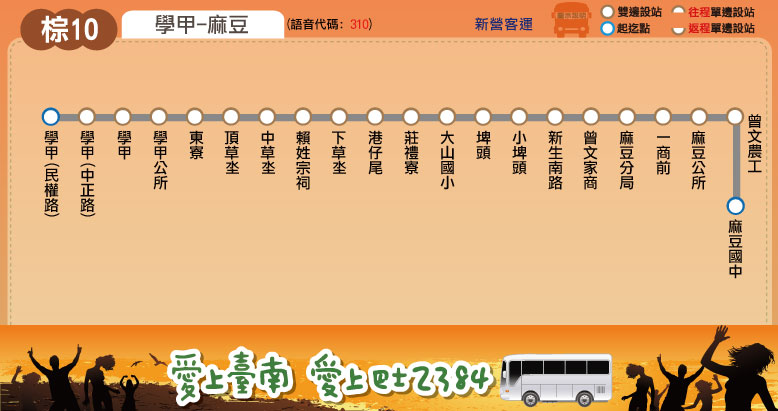
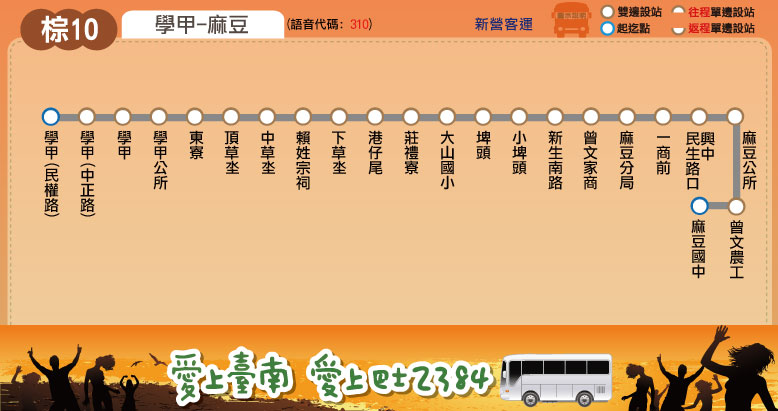
finished the time schedule of brown 10 & 11

Changed region(s): [[0.8638, 0.3212, 0.9563, 0.7007], [0.9563, 0.2628, 0.9871, 0.4672]]

diff --git a/brown/brown_10.html b/brown/brown_10.html
@@ -67,7 +67,7 @@ select.get_fare option.option5
 			<table border="0">
 				<tr>
 					<td>起訖點</td>
-					<td>新營 － 鹽水 － 南鯤鯓 － 雙春</td>
+					<td>學甲 － 麻豆</td>
 				</tr>
 				<tr>
 					<td>營運公司</td>
@@ -75,7 +75,13 @@ select.get_fare option.option5
 				</tr>
 				<tr>
 					<td>首／末班車發車時刻</td>
-					<td>往 雙春：09:45／17:40<br />往 新營：06:00／14:20</td>
+					<td>
+					<script language="javascript">
+					document.write('往 麻豆：'+brown_10_time_go[0]+'／'+brown_10_time_go[brown_10_time_go.length-1]);
+					document.write('<br />');
+					document.write('往 學甲：'+brown_10_time_return[0]+'／'+brown_10_time_return[brown_10_time_return.length-1]);
+					</script>
+					</td>
 				</tr>
 				<tr>
 					<td>班距</td>
@@ -87,7 +93,7 @@ select.get_fare option.option5
 				</tr>
 			</table>
 			<p>　</p>
-			<a href="http://2384.tainan.gov.tw:8080/AGPSRemoteQuery3/ajaxBus.jsp?pathId=1301&locale=zh_TW" class="button">公車動態資訊</a> </div>
+			<a href="http://2384.tainan.gov.tw:8080/AGPSRemoteQuery3/ajaxBus.jsp?pathId=1310&locale=zh_TW" class="button">公車動態資訊</a> </div>
 	</div>
 </div>
 <div id="wrapper3">
@@ -133,10 +139,10 @@ select.get_fare option.option5
 		<span class="byline">Bus schedule</span> </div>
 	<div class="content">
 		<script language="javascript">
-			document.write('<h2><font color="brown">新營-&gt;雙春</font></h2>');
+			document.write('<h2><font color="brown">學甲-&gt;麻豆</font></h2>');
 			create_time_schedule(brown_10_main_stop_name, brown_10_main_stop_time_consume, brown_10_important_stop, brown_10_time_go, false);
 			document.write('<p>　</p>');
-			document.write('<h2><font color="brown">雙春-&gt;新營</font></h2>');
+			document.write('<h2><font color="brown">麻豆-&gt;學甲</font></h2>');
 			create_time_schedule(brown_10_main_stop_name, brown_10_main_stop_time_consume, brown_10_important_stop, brown_10_time_return, true);
 			document.write(TimeScheduleMSG);
 		</script>
@@ -152,22 +158,13 @@ select.get_fare option.option5
 		<div class="content">
 			<table>
 				<tr>
-					<th rowspan="3">新營</th>
-					<td style="text-align: center"><img src="../route/transfer/railway.png"></td>
-					<td>台鐵新營站</td>
-				</tr>
-				<tr>
+					<th rowspan="2">學甲</th>
 					<td style="text-align: center"><img src="../route/transfer/brown_transfer_logo.png"></td>
-					<td id="brown"><a href="../brown/brown.html" target="_blank">棕幹線</a>、<a href="../brown/brown_1.html" target="_blank">棕1</a>、<a href="../brown/brown_2.html" target="_blank">棕2</a>、<a href="../brown/brown_3.html" target="_blank">棕3</a></td>
+					<td id="brown"><a href="../brown/brown.html" target="_blank">棕幹線</a>、<a href="../brown/brown_10.html" target="_blank">棕10</a>、<a href="../brown/brown_11.html" target="_blank">棕11</a></td>
 				</tr>
 				<tr>
-					<td style="text-align: center"><img src="../route/transfer/yellow_transfer_logo.png"></td>
-					<td id="yellow">
-					<p>
-						<a href="../yellow/yellow.html" target="_blank">黃幹線</a>、<a href="../yellow/yellow_1.html" target="_blank">黃1</a>、<a href="../yellow/yellow_2.html" target="_blank">黃2</a>、<a href="../yellow/yellow_3.html" target="_blank">黃3</a>、<a href="../yellow/yellow_4.html" target="_blank">黃4</a>、
-					</p>
-					<a href="../yellow/yellow_5.html" target="_blank">黃5</a>、<a href="../yellow/yellow_6.html" target="_blank">黃6</a>、<a href="../yellow/yellow_7.html" target="_blank">黃7</a>
-					</td>
+					<td style="text-align: center"><img src="../route/transfer/blue_transfer_logo.png"></td>
+					<td id="blue"><a href="../blue/blue_1.html" target="_blank">藍1</a>、<a href="../blue/blue_2.html" target="_blank">藍2</a>、<a href="../blue/blue_3.html" target="_blank">藍3</a></td>
 				</tr>
 			</table>
 		</div>

diff --git a/brown/brown_11.html b/brown/brown_11.html
@@ -67,7 +67,7 @@ select.get_fare option.option5
 			<table border="0">
 				<tr>
 					<td>起訖點</td>
-					<td>新營 － 鹽水 － 南鯤鯓 － 雙春</td>
+					<td>學甲 － 頂洲</td>
 				</tr>
 				<tr>
 					<td>營運公司</td>
@@ -75,7 +75,12 @@ select.get_fare option.option5
 				</tr>
 				<tr>
 					<td>首／末班車發車時刻</td>
-					<td>往 雙春：09:45／17:40<br />往 新營：06:00／14:20</td>
+					<td><script language="javascript">
+					document.write('往 頂洲：'+brown_11_time_go[0]+'／'+brown_11_time_go[brown_11_time_go.length-1]);
+					document.write('<br />');
+					document.write('往 學甲：'+brown_11_time_return[0]+'／'+brown_11_time_return[brown_11_time_return.length-1]);
+					</script>
+					</td>
 				</tr>
 				<tr>
 					<td>班距</td>
@@ -87,7 +92,7 @@ select.get_fare option.option5
 				</tr>
 			</table>
 			<p>　</p>
-			<a href="http://2384.tainan.gov.tw:8080/AGPSRemoteQuery3/ajaxBus.jsp?pathId=1301&locale=zh_TW" class="button">公車動態資訊</a> </div>
+			<a href="http://2384.tainan.gov.tw:8080/AGPSRemoteQuery3/ajaxBus.jsp?pathId=1311&locale=zh_TW" class="button">公車動態資訊</a> </div>
 	</div>
 </div>
 <div id="wrapper3">
@@ -133,10 +138,10 @@ select.get_fare option.option5
 		<span class="byline">Bus schedule</span> </div>
 	<div class="content">
 		<script language="javascript">
-			document.write('<h2><font color="brown">新營-&gt;雙春</font></h2>');
+			document.write('<h2><font color="brown">學甲-&gt;頂洲</font></h2>');
 			create_time_schedule(brown_11_main_stop_name, brown_11_main_stop_time_consume, brown_11_important_stop, brown_11_time_go, false);
 			document.write('<p>　</p>');
-			document.write('<h2><font color="brown">雙春-&gt;新營</font></h2>');
+			document.write('<h2><font color="brown">頂洲-&gt;學甲</font></h2>');
 			create_time_schedule(brown_11_main_stop_name, brown_11_main_stop_time_consume, brown_11_important_stop, brown_11_time_return, true);
 			document.write(TimeScheduleMSG);
 		</script>
@@ -152,22 +157,13 @@ select.get_fare option.option5
 		<div class="content">
 			<table>
 				<tr>
-					<th rowspan="3">新營</th>
-					<td style="text-align: center"><img src="../route/transfer/railway.png"></td>
-					<td>台鐵新營站</td>
-				</tr>
-				<tr>
+					<th rowspan="2">學甲</th>
 					<td style="text-align: center"><img src="../route/transfer/brown_transfer_logo.png"></td>
-					<td id="brown"><a href="../brown/brown.html" target="_blank">棕幹線</a>、<a href="../brown/brown_1.html" target="_blank">棕1</a>、<a href="../brown/brown_2.html" target="_blank">棕2</a>、<a href="../brown/brown_3.html" target="_blank">棕3</a></td>
+					<td id="brown"><a href="../brown/brown.html" target="_blank">棕幹線</a>、<a href="../brown/brown_10.html" target="_blank">棕10</a>、<a href="../brown/brown_11.html" target="_blank">棕11</a></td>
 				</tr>
 				<tr>
-					<td style="text-align: center"><img src="../route/transfer/yellow_transfer_logo.png"></td>
-					<td id="yellow">
-					<p>
-						<a href="../yellow/yellow.html" target="_blank">黃幹線</a>、<a href="../yellow/yellow_1.html" target="_blank">黃1</a>、<a href="../yellow/yellow_2.html" target="_blank">黃2</a>、<a href="../yellow/yellow_3.html" target="_blank">黃3</a>、<a href="../yellow/yellow_4.html" target="_blank">黃4</a>、
-					</p>
-					<a href="../yellow/yellow_5.html" target="_blank">黃5</a>、<a href="../yellow/yellow_6.html" target="_blank">黃6</a>、<a href="../yellow/yellow_7.html" target="_blank">黃7</a>
-					</td>
+					<td style="text-align: center"><img src="../route/transfer/blue_transfer_logo.png"></td>
+					<td id="blue"><a href="../blue/blue_1.html" target="_blank">藍1</a>、<a href="../blue/blue_2.html" target="_blank">藍2</a>、<a href="../blue/blue_3.html" target="_blank">藍3</a></td>
 				</tr>
 			</table>
 		</div>

diff --git a/route/fare_and_time/brown_10.js b/route/fare_and_time/brown_10.js
@@ -1,42 +1,26 @@
-brown_10_interval_name = ["新營","茄苳腳","鹽水","後寮","番子寮","孫厝寮","羊稠厝","頂洲","北紅茄萣","新渡子頭","渡子頭","南鯤鯓","雙春"];
+brown_10_interval_name = ["學甲","下草坔","莊禮寮","埤頭","麻豆公所","麻豆國中"];
 brown_10_interval_stop = [
-["新營站","圓環","三民路口","齊普","新營漁市場","太子路口","統聯客運"], // 新營
-["茄苳腳","新營工業區","明達中學"], // 茄苳腳
-["竹圍尾","橋南里","鹽水","地政事務所","月津國小"], // 鹽水
-["後寮"], // 後寮
-["番子寮"], // 番子寮
-["孫厝寮","南孫厝寮"], // 孫厝寮
-["羊稠厝","頑皮世界"], // 羊稠厝
-["頂洲"], // 頂洲
-["北紅茄萣"], // 北紅茄萣
-["新渡子頭"], // 新渡子頭
-["渡子頭"], // 渡子頭
-["南鯤鯓","橋北"], // 南鯤鯓
-["永春","雙春"] // 雙春
+["學甲(民權路)","學甲(中正路)","學甲","學甲公所","東寮"], // 學甲
+["頂草坔","中草坔","賴姓宗祠","下草坔"], // 下草坔
+["港仔尾","莊禮寮","大山國小"], // 莊禮寮
+["埤頭","小埤頭"], // 埤頭
+["新生南路","曾文家商","麻豆分局","一商前","興中民生路口","麻豆公所"], // 麻豆公所
+["曾文農工","麻豆國中"] // 麻豆國中
 ];
-brown_10_stop_time_consume = [0,1,3,5,7,8,10,11,13,15,16,18,20,22,24,26,27,29,31,32,33,34,35,36,37,36,37,38,40,43,45,46,47,49,50,
-52,53,54,55,56,57,58,60]; // fake time
-brown_10_fare = [ // fake fare
+brown_10_stop_time_consume = [0,2,3,4,5,6,6,7,8,10,11,12,13,14,16,19,22,23,24,26,28,30];
+brown_10_fare = [
 [26],
 [26,26],
 [26,26,26],
-[33,26,26,26],
-[39,26,26,26,26],
-[46,31,26,26,26,26],
-[50,34,26,26,26,26,26],
-[52,36,27,26,26,26,26,26],
-[55,39,30,26,26,26,26,26,26],
-[59,43,34,26,26,26,26,26,26,26],
-[73,57,48,41,34,27,26,26,26,26,26],
-[82,67,57,50,43,36,33,30,27,26,26,26],
-[89,73,64,57,50,43,39,37,34,31,26,26,26],
-[100,84,75,68,61,54,50,48,45,42,27,26,26,26]
+[26,26,26,26],
+[40,29,26,26,26],
+[53,41,33,27,26,26]
 ];
 // format = [time at the start stop] or
 // [time, other] or
 // [time, start_stop, end_stop, other]
-brown_10_main_stop_name = ["新營","統聯<br />客運","鹽水","頑皮世界","南鯤鯓","雙春"];
-brown_10_main_stop_time_consume = [0, 8, 18, 35, 51, 55];
-brown_10_important_stop = [0, 2, 4, 5]; // 新營, 鹽水, 南鯤鯓, 雙春
-brown_10_time_go = [["09:45"],["13:25"],["17:40"]];
-brown_10_time_return = [["06:00"],["10:40"],["14:20"]];
+brown_10_main_stop_name = ["學甲","港仔尾","一商前","麻豆國中"];
+brown_10_main_stop_time_consume = [0, 10, 23, 30];
+brown_10_important_stop = [0, 3]; // 學甲, 麻豆國中
+brown_10_time_go = [["07:00"],["12:20"],["16:30"]];
+brown_10_time_return = [["07:35"],["12:55"],["17:05"]];

diff --git a/route/fare_and_time/brown_11.js b/route/fare_and_time/brown_11.js
@@ -1,42 +1,24 @@
-brown_11_interval_name = ["新營","茄苳腳","鹽水","後寮","番子寮","孫厝寮","羊稠厝","頂洲","北紅茄萣","新渡子頭","渡子頭","南鯤鯓","雙春"];
+brown_11_interval_name = ["學甲","宅子港","新芳里","紅茄萣","頂洲"];
 brown_11_interval_stop = [
-["新營","圓環","三民路口","齊普","新營漁市場","太子路口","統聯客運"], // 新營
-["茄苳腳","新營工業區","明達中學"], // 茄苳腳
-["竹圍尾","橋南里","鹽水","地政事務所","月津國小"], // 鹽水
-["後寮"], // 後寮
-["番子寮"], // 番子寮
-["孫厝寮","南孫厝寮"], // 孫厝寮
-["羊稠厝","頑皮世界"], // 羊稠厝
-["頂洲"], // 頂洲
-["北紅茄萣"], // 北紅茄萣
-["新渡子頭"], // 新渡子頭
-["渡子頭"], // 渡子頭
-["南鯤鯓","橋北"], // 南鯤鯓
-["永春","雙春"] // 雙春
+["學甲(民權路)","學甲(中正路)","學甲","學甲國中"], // 學甲
+["德安寮","宅子港"], // 宅子港
+["新芳里"], // 新芳里
+["紅茄萣"], // 紅茄萣
+["頂洲"] // 頂洲
 ];
-brown_11_stop_time_consume = [0,1,3,5,7,8,10,11,13,15,16,18,20,22,24,26,27,29,31,32,33,34,35,36,37,36,37,38,40,43,45,46,47,49,50,
-52,53,54,55,56,57,58,60]; // fake time
-brown_11_fare = [ // fake fare
+brown_11_stop_time_consume = [0,2,3,5,7,9,15,17,20];
+brown_11_fare = [
 [26],
 [26,26],
 [26,26,26],
-[33,26,26,26],
-[39,26,26,26,26],
-[46,31,26,26,26,26],
-[50,34,26,26,26,26,26],
-[52,36,27,26,26,26,26,26],
-[55,39,30,26,26,26,26,26,26],
-[59,43,34,26,26,26,26,26,26,26],
-[73,57,48,41,34,27,26,26,26,26,26],
-[82,67,57,50,43,36,33,30,27,26,26,26],
-[89,73,64,57,50,43,39,37,34,31,26,26,26],
-[100,84,75,68,61,54,50,48,45,42,27,26,26,26]
+[29,26,26,26],
+[31,26,26,26,26]
 ];
 // format = [time at the start stop] or
 // [time, other] or
 // [time, start_stop, end_stop, other]
-brown_11_main_stop_name = ["新營","統聯<br />客運","鹽水","頑皮世界","南鯤鯓","雙春"];
-brown_11_main_stop_time_consume = [0, 8, 18, 35, 51, 55];
-brown_11_important_stop = [0, 2, 4, 5]; // 新營, 鹽水, 南鯤鯓, 雙春
-brown_11_time_go = [["09:45"],["13:25"],["17:40"]];
-brown_11_time_return = [["06:00"],["10:40"],["14:20"]];
+brown_11_main_stop_name = ["學甲","新芳里","頂洲"];
+brown_11_main_stop_time_consume = [0, 15, 20];
+brown_11_important_stop = [0, 2]; // 學甲, 頂洲
+brown_11_time_go = [["06:20"],["13:30"],["17:40"]];
+brown_11_time_return = [["06:40"],["13:50"],["18:00"]];

diff --git a/brown/brown.html b/brown/brown.html
@@ -176,6 +176,15 @@ select.get_fare option.option5
 					</td>
 				</tr>
 				<tr>
+					<th rowspan="2">學甲</th>
+					<td style="text-align: center"><img src="../route/transfer/brown_transfer_logo.png"></td>
+					<td id="brown"><a href="../brown/brown.html" target="_blank">棕幹線</a>、<a href="../brown/brown_10.html" target="_blank">棕10</a>、<a href="../brown/brown_11.html" target="_blank">棕11</a></td>
+				</tr>
+				<tr>
+					<td style="text-align: center"><img src="../route/transfer/blue_transfer_logo.png"></td>
+					<td id="blue"><a href="../blue/blue_1.html" target="_blank">藍1</a>、<a href="../blue/blue_2.html" target="_blank">藍2</a>、<a href="../blue/blue_3.html" target="_blank">藍3</a></td>
+				</tr>
+				<tr>
 					<th rowspan="3">佳里</th>
 					<td style="text-align: center"><img src="../route/transfer/blue_transfer_logo.png"></td>
 					<td id="blue">

diff --git a/brown/brown_3_1.html b/brown/brown_3_1.html
@@ -92,7 +92,7 @@ select.get_fare option.option5
 				</tr>
 			</table>
 			<p>　</p>
-			<a href="http://2384.tainan.gov.tw:8080/AGPSRemoteQuery3/ajaxBus.jsp?pathId=1301&locale=zh_TW" class="button">公車動態資訊</a> </div>
+			<a href="http://2384.tainan.gov.tw:8080/AGPSRemoteQuery3/ajaxBus.jsp?pathId=1303&locale=zh_TW" class="button">公車動態資訊</a> </div>
 	</div>
 </div>
 <div id="wrapper3">
